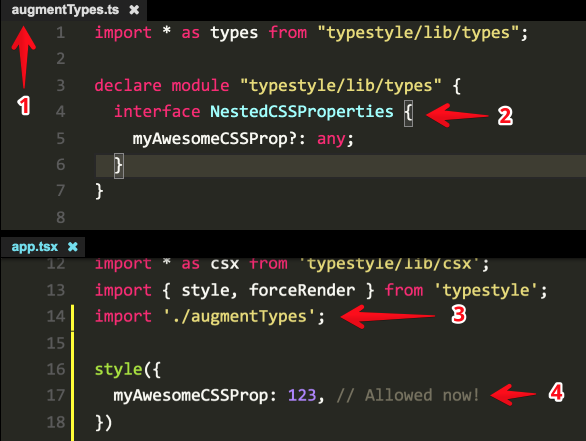
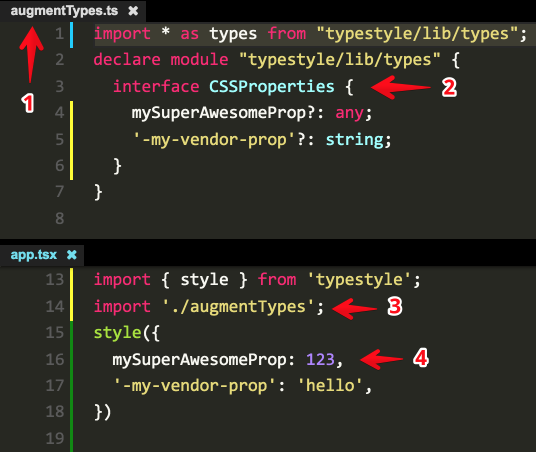
augment types

diff --git a/src/docs/core.md b/src/docs/core.md
@@ -201,6 +201,23 @@ const tallColoredClass = typestyle.classes(tallClass, coloredClass);
 const mightBeColored = typestyle.classes(tallClass, hasError && coloredClass);
 ```  
 
+## Tip: Declaring new CSS stuff
+We protect against typos e.g. if you misspell a property like `color`: 
+
+```play
+style({colour: 'red'}) // TypeScript Error: unknown prop `colour`
+```
+However there might be vendor prefixes or non standard CSS Property (or even some property we missed) that you might want to use. It is super easy to augment our types simply following the standard TypeScript pattern shown below:
+
+![](./images/book/augmentTypes.png)
+
+- create a `.ts` file e.g. `augmentTypes.ts`
+- Agument the `"typestyle/lib/types".CSSProperties` interface
+- Include the `augmentTypes` module from your application root
+- Yay! now you can use the new types with complete safety. 
+
+But be sure to create an [issue with us](https://github.com/typestyle/typestyle/issues) so we can add to our `CSSProperties` to help future developers.
+
 ## Tip: Code Organization
 How you use the `style` function and organize the class names and style objects is really up to you. However it's good to get some guidance. With my colleages and OSS projects I've been using TypeScript namespaces: 
 
